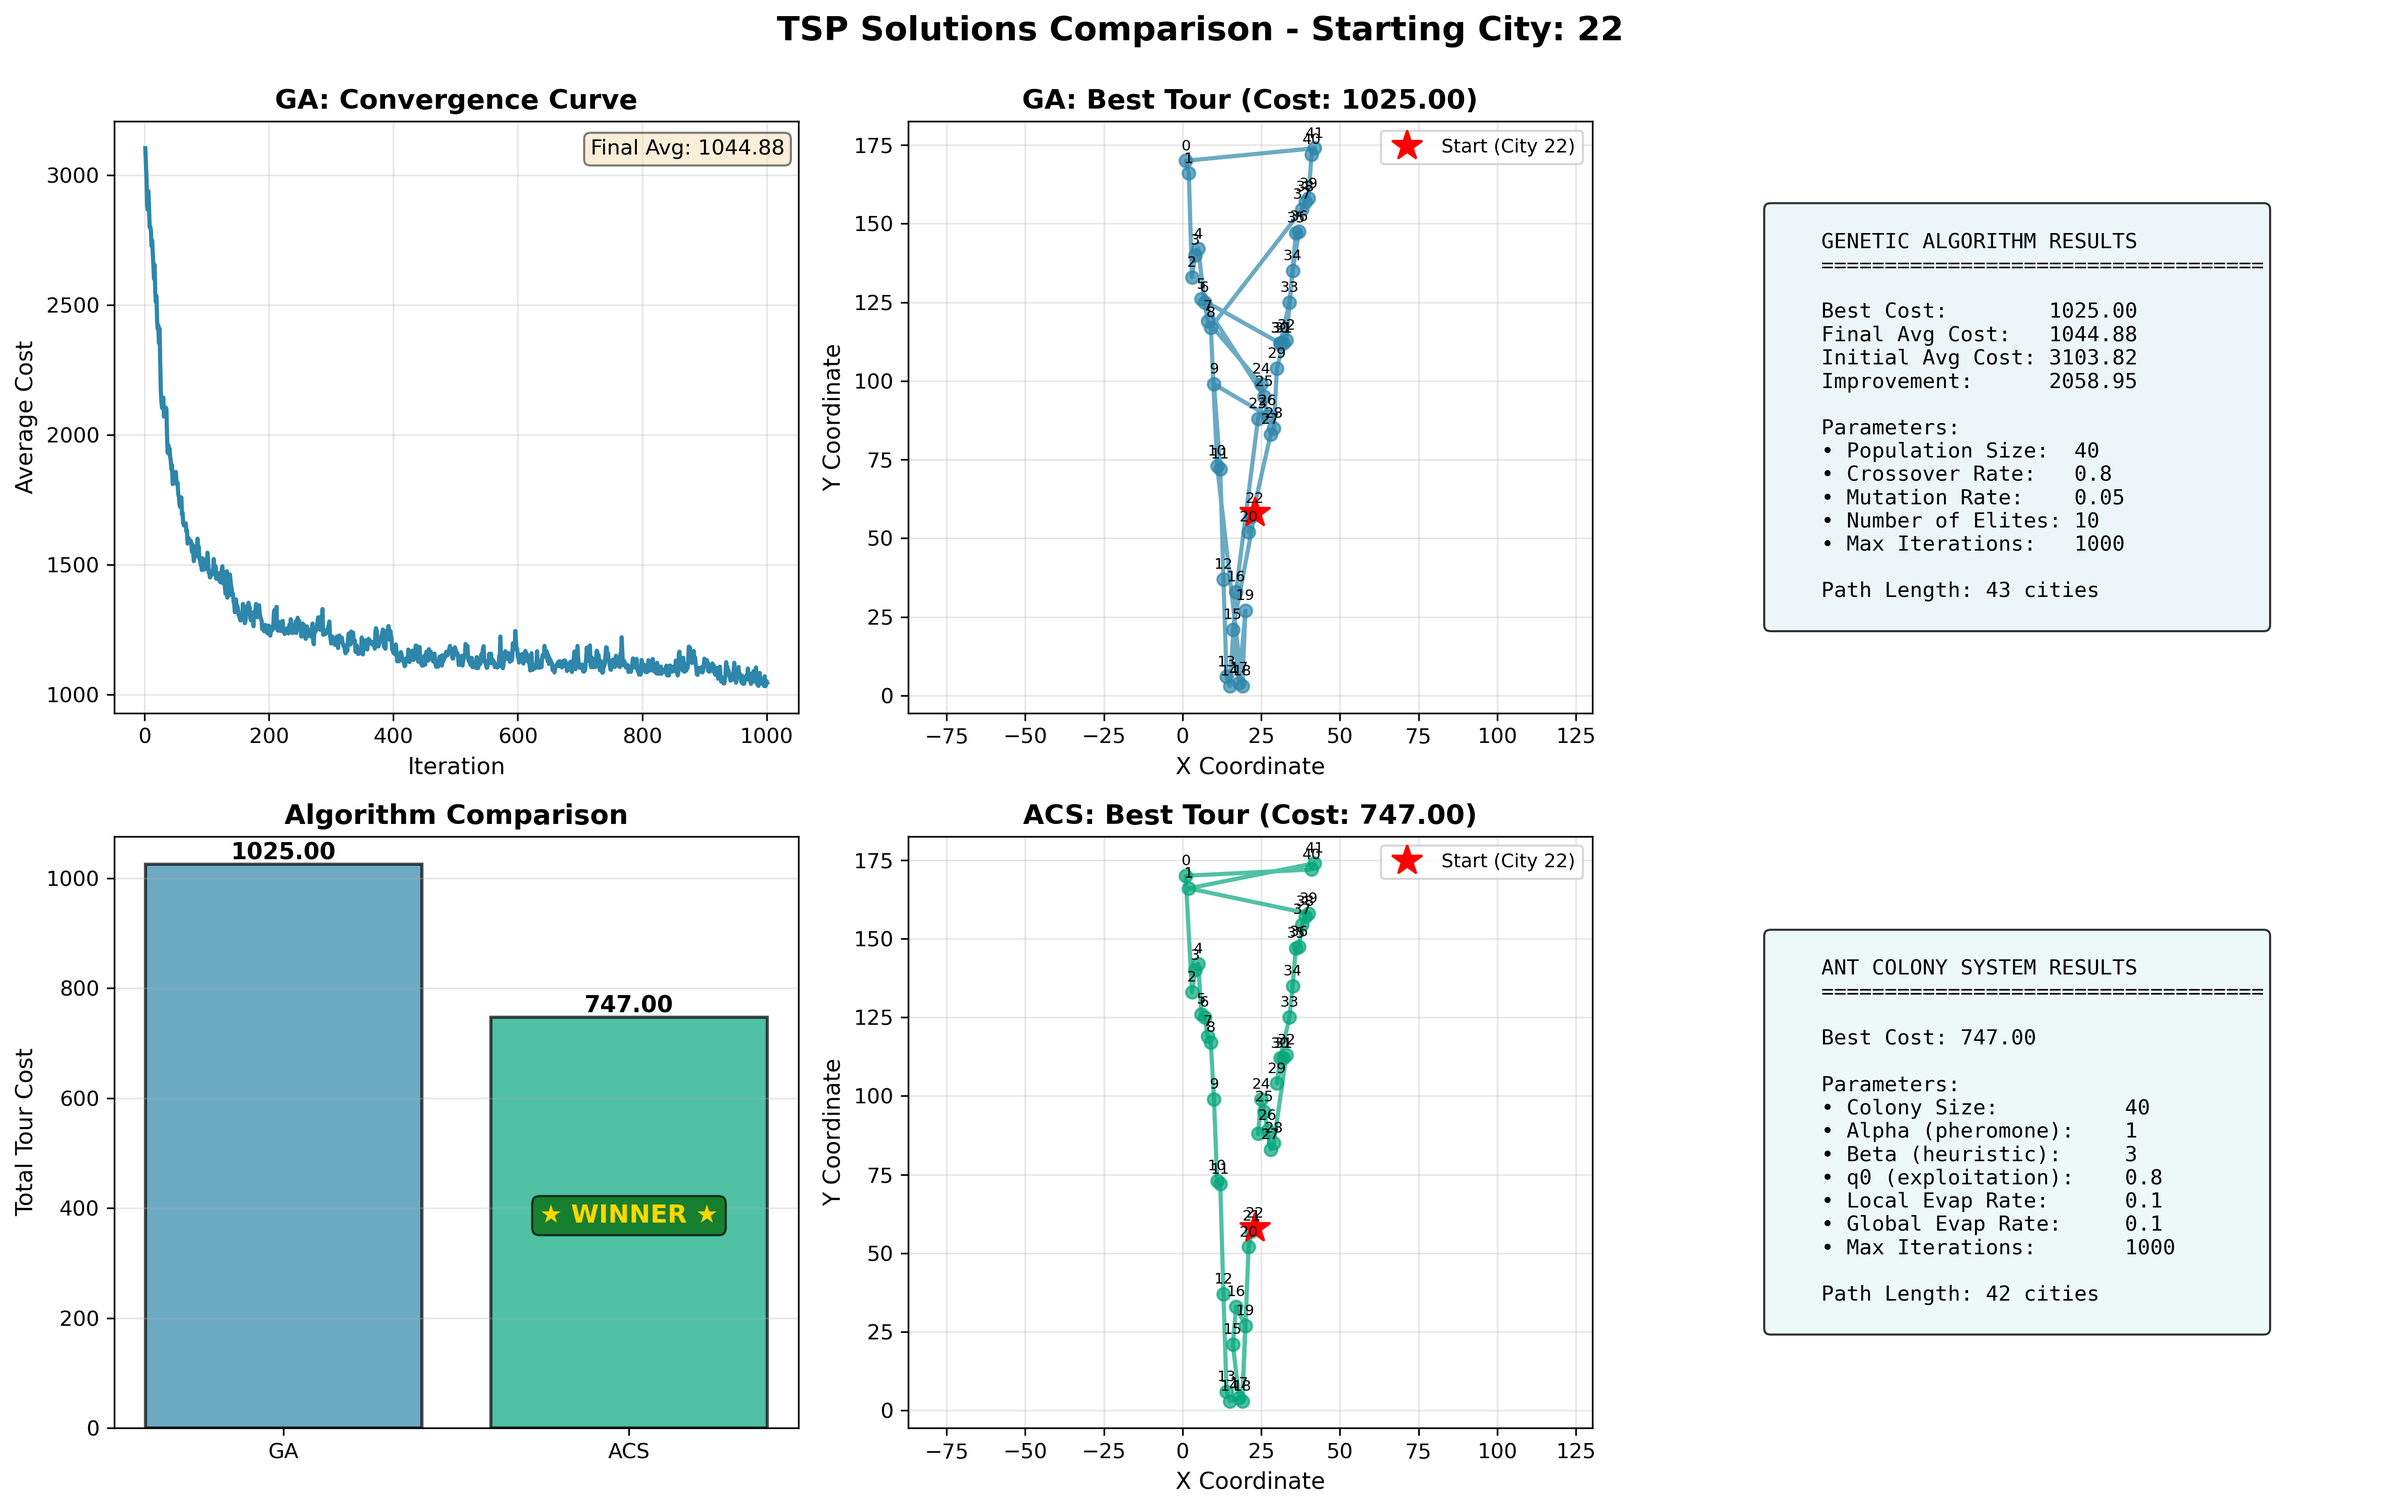
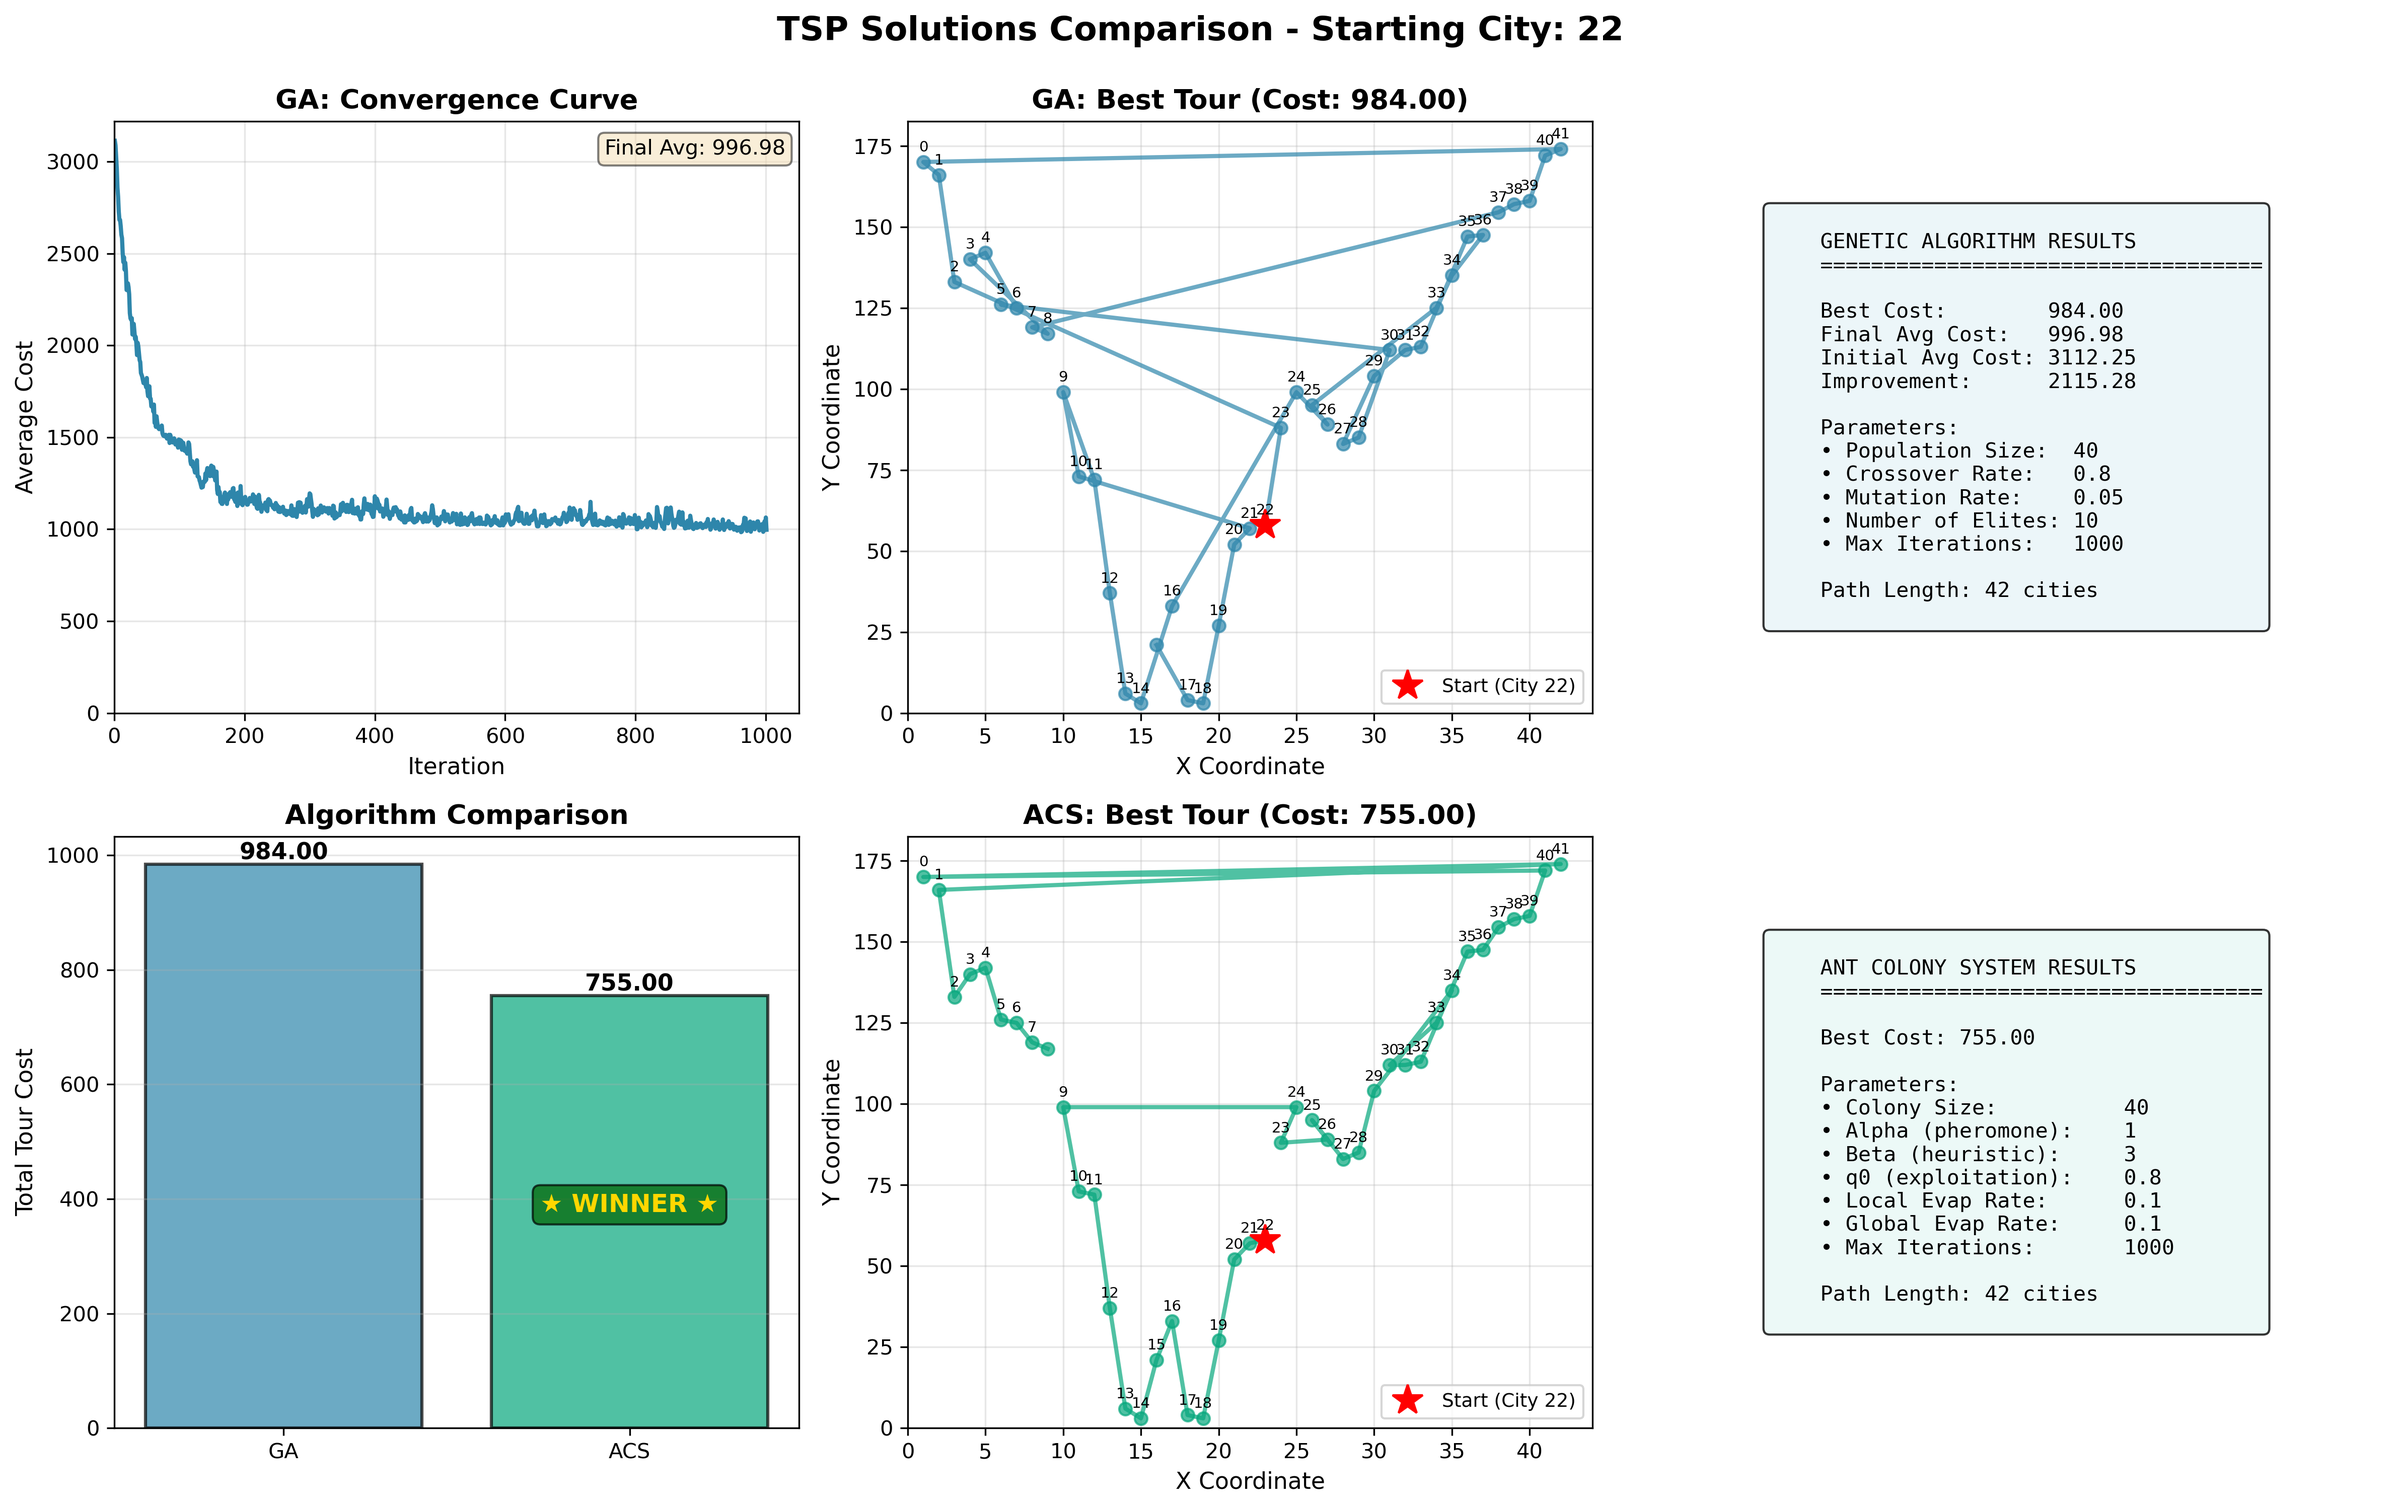
Stretch solution graphs

diff --git a/singleGuiMain.py b/singleGuiMain.py
@@ -86,6 +86,8 @@ if __name__ == '__main__':
     ax1.set_xlabel("Iteration", fontsize=11)
     ax1.set_ylabel("Average Cost", fontsize=11)
     ax1.grid(True, alpha=0.3)
+    ax1.set_xlim(left=0)
+    ax1.set_ylim(bottom=0)
     ax1.text(0.98, 0.97, f'Final Avg: {ga_avg_costs[-1]:.2f}', 
              transform=ax1.transAxes, ha='right', va='top',
              bbox=dict(boxstyle='round', facecolor='wheat', alpha=0.5))
@@ -108,7 +110,8 @@ if __name__ == '__main__':
     ax2.set_ylabel("Y Coordinate", fontsize=11)
     ax2.legend(fontsize=9)
     ax2.grid(True, alpha=0.3)
-    ax2.axis('equal')
+    ax2.set_xlim(left=0)
+    ax2.set_ylim(bottom=0)
     
     # ----- GA Statistics -----
     ax3 = plt.subplot(2, 3, 3)
@@ -155,7 +158,8 @@ if __name__ == '__main__':
     ax4.set_ylabel("Y Coordinate", fontsize=11)
     ax4.legend(fontsize=9)
     ax4.grid(True, alpha=0.3)
-    ax4.axis('equal')
+    ax4.set_xlim(left=0)
+    ax4.set_ylim(bottom=0)
     
     # ----- ACS Statistics -----
     ax5 = plt.subplot(2, 3, 6)
@@ -202,6 +206,7 @@ if __name__ == '__main__':
     ax6.set_title("Algorithm Comparison", fontsize=13, fontweight='bold')
     ax6.set_ylabel("Total Tour Cost", fontsize=11)
     ax6.grid(True, alpha=0.3, axis='y')
+    ax6.set_ylim(bottom=0)
     
     # Add winner annotation
     winner_idx = costs.index(min(costs))
